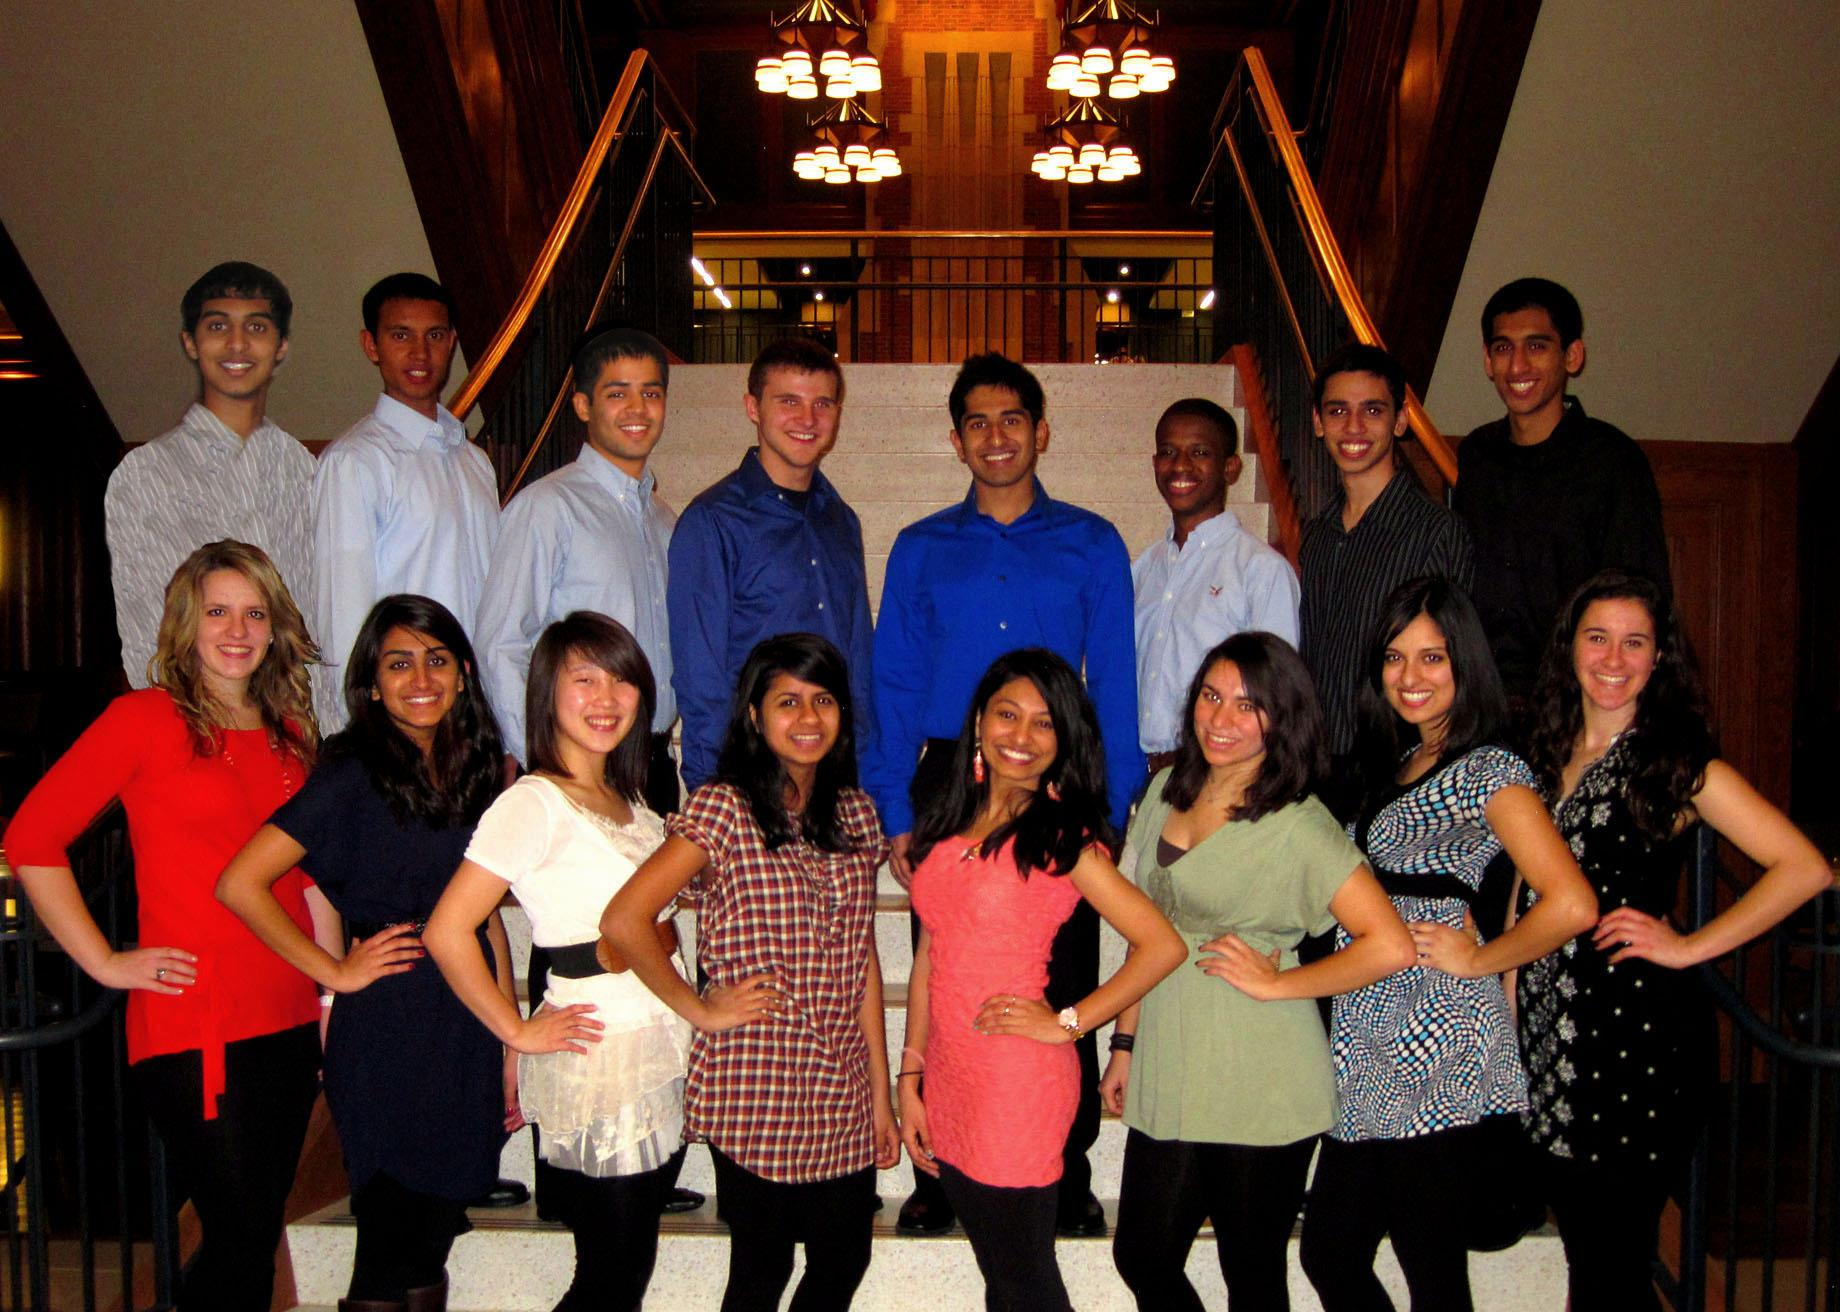
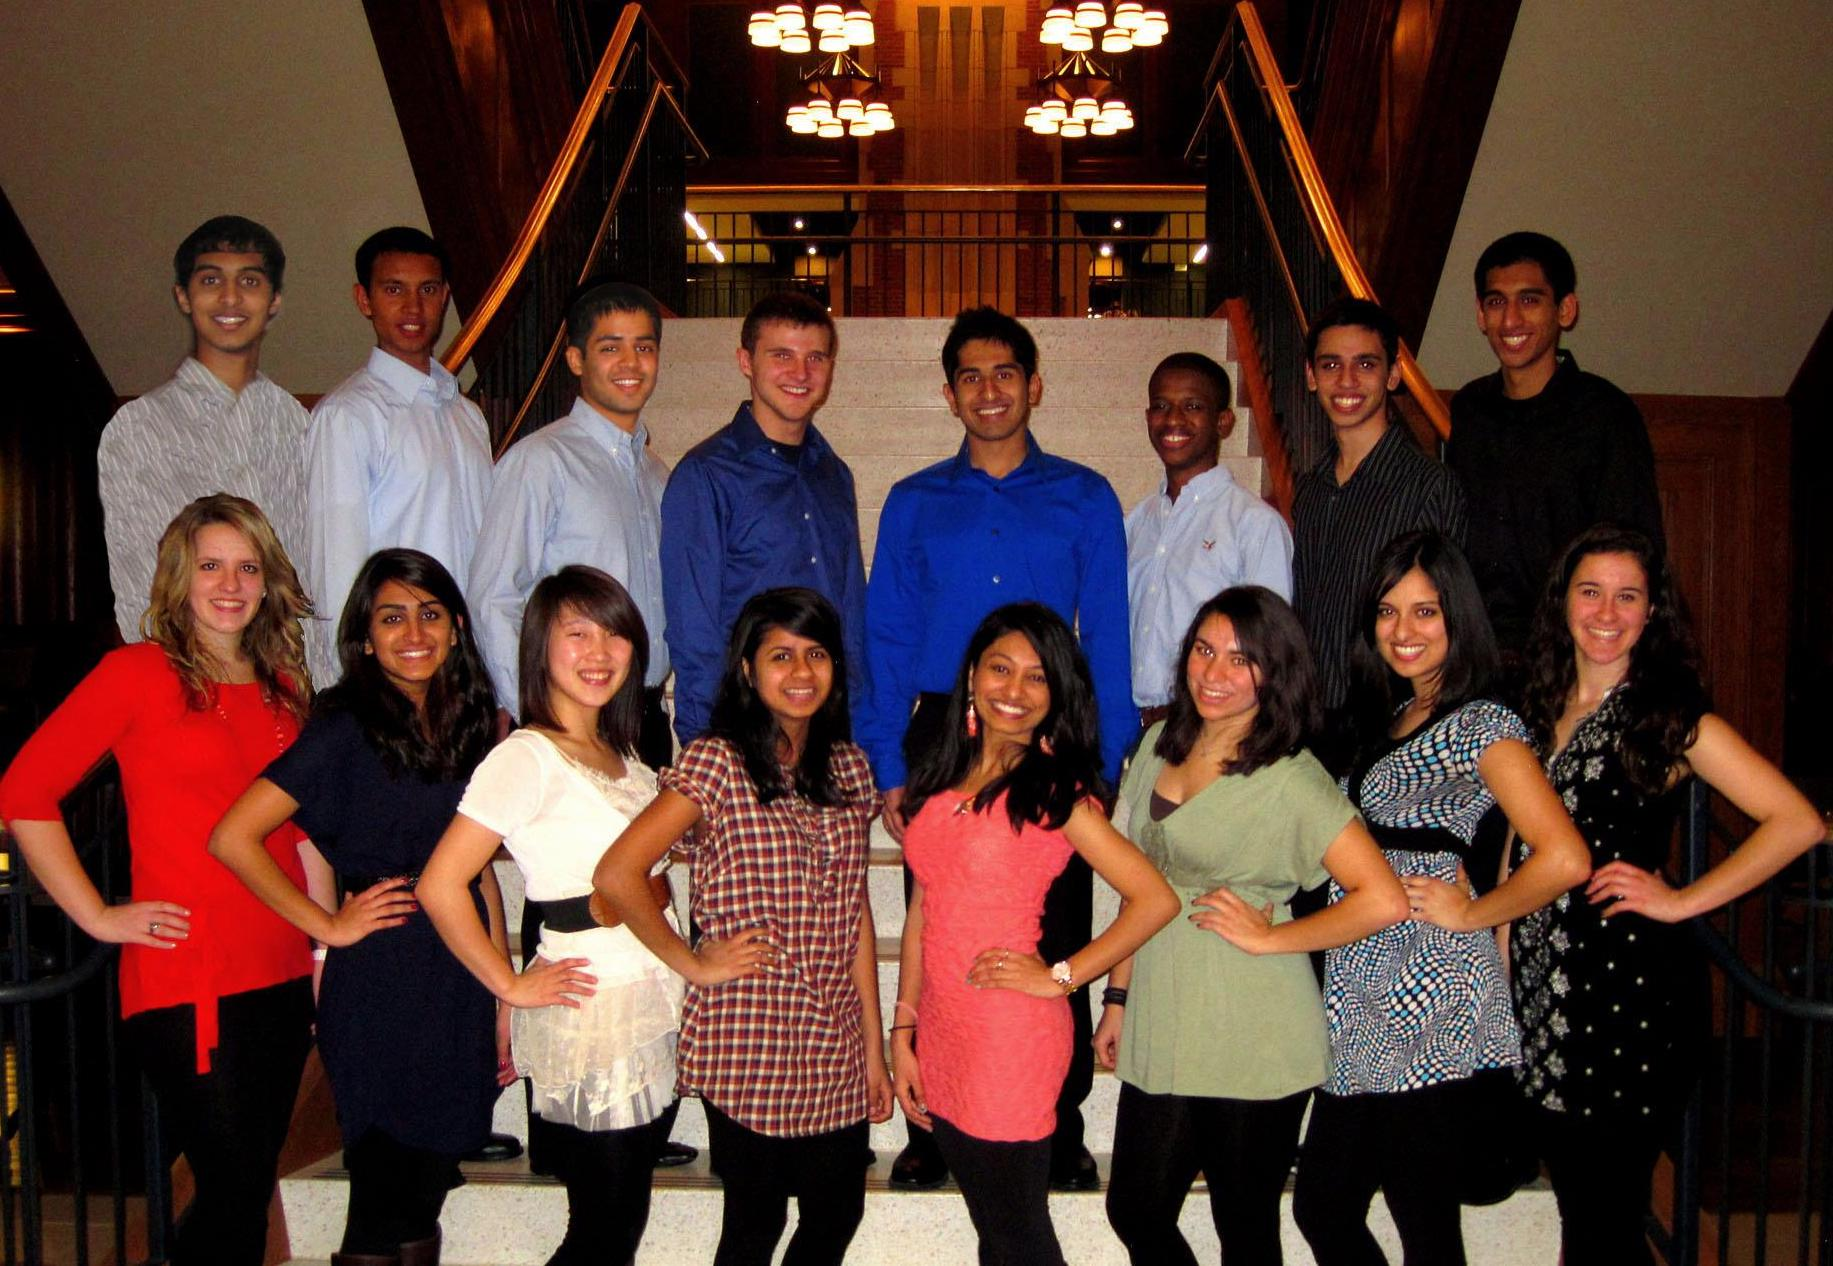
updates

diff --git a/chaawebsite/src/components/performances.component.js b/chaawebsite/src/components/performances.component.js
@@ -1,0 +1,95 @@
+import React, { Component } from 'react';
+import ReactPlayer from "react-player";
+
+
+
+export default class Performances extends Component {
+   
+    render(){
+        return( 
+            <div>
+                <div id="vidContainer">
+                    <hr></hr>
+                    <div id = "performText">PAST PERFORMANCES</div>
+                    <hr></hr>
+                    <br></br>
+                    <br></br>
+                    <p>2019-2020: Black Mirror - Hang the DJ</p>
+                    <div className="videos">
+                        <ReactPlayer
+                            url="https://www.youtube.com/watch?v=ThiC7lqqEMw"
+                        />
+                    </div>
+                    <br></br>
+                    <br></br>
+                    <p>2018-2019: La La Land</p>
+                    <div className="videos">
+                        <ReactPlayer
+                            url="https://www.youtube.com/watch?v=dl9YzfdFiFk"
+                        />
+                    </div>
+                    <br></br>
+                    <br></br>
+                    <p>2017-2018: Rang De Basanti</p>
+                    <div className="videos">
+                        <ReactPlayer
+                            url="https://www.youtube.com/watch?v=JO6iM4jB9zI"
+                        />
+                    </div>
+                    <br></br>
+                    <br></br>
+                    <p>2016-2017: Nil Battey Sannata</p>
+                    <div className="videos">
+                        <ReactPlayer
+                            url="https://www.youtube.com/watch?v=5ZXWKr2CjTg"
+                        />
+                    </div>
+                    <br></br>
+                    <br></br>
+                    <p>2015-2016: Step Up</p>
+                    <div className="videos">
+                        <ReactPlayer
+                            url="https://www.youtube.com/watch?v=n4Ic16herzw"
+                        />
+                    </div>
+                    <br></br>
+                    <br></br>
+                    <p>2014-2015: V For Vendetta </p>
+                    <div className="videos">
+                        <ReactPlayer
+                            url="https://www.youtube.com/watch?v=k7_XaQbUrOs"
+                        />
+                    </div>
+                    <br></br>
+                    <br></br>
+                    <p>2013-2014: Ms. Congeniality </p>
+                    <div className="videos">
+                        <ReactPlayer
+                            url="https://www.youtube.com/watch?v=8UTa5Rymizw"
+                        />
+                    </div>
+                    <br></br>
+                    <br></br>
+                    <p>2012-2013: Pareshaan</p>
+                    <div className="videos">
+                        <ReactPlayer
+                            url="https://www.youtube.com/watch?v=VBYxzRn66mU"
+                        />
+                    </div>
+                    <br></br>
+                    <br></br>
+                    <p>2011-2012: Alien Shit</p>
+                    <div className="videos">
+                        <ReactPlayer
+                            url="https://www.youtube.com/watch?v=yxzrNOI9AJ4"
+                        />
+                    </div>
+                </div>
+                <br></br>
+                <br></br>
+                <br></br>
+                <br></br>
+            </div>
+        )
+    }
+}

diff --git a/chaawebsite/src/components/homepage.component.js b/chaawebsite/src/components/homepage.component.js
@@ -1,4 +1,6 @@
 import React, { Component } from 'react';
+import { FontAwesomeIcon } from '@fortawesome/react-fontawesome'
+import {faCircle } from '@fortawesome/free-solid-svg-icons'
 import { Slide } from 'react-slideshow-image';
 import Logo from './diwali.jpg';
 import pic1 from './album/circle.jpeg';
@@ -6,7 +8,7 @@ import pic2 from './album/christmas.JPG';
 import pic3 from './album/ADZ.jpg';
 import pic4 from './album/mixer.jpeg'
 import pic5 from './album/giselle.jpg';
-import pic6 from './album/formal.jpeg';
+import pic6 from './album/formal.JPG';
 import pic7 from './album/jazba.JPG';
 import pic8 from './album/soraya.jpg';
 import pic9 from './album/wall.jpg';
@@ -45,15 +47,19 @@ export default class Homepage extends Component {
                             <img id = "image"
                                 alt=""
                                 src={Logo}
-                                width="1440"
-                                height="635.21"
+                                width="1416"
+                                height="624.78"
                             />
                             <div className="caption">
                                 <p>WASHU CHAAHAT</p>
                             </div>
+                            <div className="motto">
+                                <p><FontAwesomeIcon icon={faCircle} color = "white" className="faIcons"/> PASSION DON'T QUIT <FontAwesomeIcon icon={faCircle} color = "white" className="faIcons"/></p>
+                            </div>
                         </div>
                     </div>
                 </div>
+                <br></br>
                 <br></br>
                 <br></br>
                 <br></br>
@@ -112,7 +118,6 @@ export default class Homepage extends Component {
                         </div>
                     </Slide>
                     </div>
-                <br></br>
                 <br></br>
                 <br></br>
                 <br></br>

diff --git a/chaawebsite/src/index.css b/chaawebsite/src/index.css
@@ -1,7 +1,10 @@
 #image {
   display: block;
-  filter: blur(3px);
-  opacity: .8;
+  /* filter: blur(2px); */
+}
+
+#image2 {
+  display: block;
 }
 
 .thumbnail {
@@ -11,10 +14,22 @@
 
 .caption {
   position: absolute;
-  font-family: Trebuchet, sans-serif;
-  top: 65%;
+  font-family: sans-serif;
+  top: 27%;
   left: 50%;
-  font-size: 525%;
+  font-size: 520%;
+  transform: translate( -50%, -50% );
+  text-align: center;
+  color: white;
+  font-weight: 300;
+}
+
+.motto {
+  position: absolute;
+  font-family: "Gill Sans", sans-serif;
+  top: 40%;
+  left: 50%;
+  font-size: 225%;
   transform: translate( -50%, -50% );
   text-align: center;
   color: white;
@@ -23,7 +38,7 @@
 
 .theTeam{
   left: 50%;
-  font-size: 525%;
+  font-size: 400%;
   color: black;
   text-align: center;
   font-family: Trebuchet, sans-serif;
@@ -43,8 +58,8 @@
 
 .aboutContainer{
   display: inline-block;
-  margin-left: 12.5%;
-  width: 75%; 
+  margin-left: 15%;
+  width: 70%; 
   font-size: 110%;
   text-align: center;
   font-family: Helvetica;
@@ -71,11 +86,35 @@
   position: relative;
   right: 390px;
   bottom: 305px;
-  font-family: 'Gill Sans', sans-serif;
+  font-family: 'Noto Sans', sans-serif;
   font-style: oblique;
   padding: 10px;
   font-size: 40px;
-  background: rgba(255, 255, 255, 0.2);
+  font-style: bold;
+  background: rgba(255, 255, 255, 0.1);
 }
 
+.videos{
+  display: flex;
+  justify-content: center;
+}
 
+#vidContainer{
+  text-align: center;
+  font-size: 125%;
+}
+
+#performText{
+  text-align: center;
+  font-size: 300%;
+  font-family: Trebuchet, sans-serif;
+}
+
+.faIcons{
+  font-size: 12px;
+  margin-bottom: 1.4%;
+}
+
+#bigCon{
+  border: 12px solid rgb(80,0,0);
+}

diff --git a/chaawebsite/src/components/members.component.js b/chaawebsite/src/components/members.component.js
@@ -36,8 +36,26 @@ export default class Members extends Component {
     render(){
         return( 
             <div> 
+                <hr></hr>
+                <h2 className = "theTeam">CHAAHAT IV</h2>
+                <hr></hr>
+                <div id="container">
+                    <div id="box-search">
+                        <div className="thumbnail">
+                            <img id = "image2"
+                                alt=""
+                                src={formal}
+                                width="1416"
+                                height="743.21"
+                            />
+                        </div>
+                    </div>
+                </div>
                 <br></br>
-                <h1 className = "theTeam">PAST TEAMS</h1>
+                <br></br>
+                <br></br>
+                <hr></hr>
+                <h2 className = "theTeam">PAST TEAMS</h2>
                 <hr></hr>
                 <br></br>
                  <div className = "slide-container">
@@ -84,6 +102,10 @@ export default class Members extends Component {
                         </div>
                     </Slide>
                     </div>
+                <br></br>
+                <br></br>
+                <br></br>
+                <br></br>
             </div>  
         )
     }

diff --git a/chaawebsite/src/App.js b/chaawebsite/src/App.js
@@ -14,15 +14,17 @@ import Footer from "./components/footer.component";
 function App() {
 
   return (
-    <Router>
-        <Navbar2/>
-        <Route exact path="/" component={Homepage} />
-        <Route exact path="/members" component={Members} />
-        <Route exact path="/performances" component={Performances} />
-        <Route exact path="/join" component={Join} />
-        <Route exact path="/contactus" component={Contact} />
-        <Footer />
-    </Router>
+      <Router>
+        <div id ="bigCon">
+          <Navbar2/>
+          <Route exact path="/" component={Homepage} />
+          <Route exact path="/members" component={Members} />
+          <Route exact path="/performances" component={Performances} />
+          <Route exact path="/join" component={Join} />
+          <Route exact path="/contactus" component={Contact} />
+          <Footer />
+        </div>
+      </Router>
   );
 }
 

diff --git a/chaawebsite/src/components/navbar.component.js b/chaawebsite/src/components/navbar.component.js
@@ -1,6 +1,6 @@
 import React, { Component } from 'react';
 import Logo from './chaaLogo.jpeg';
-import { Navbar, Nav, NavDropdown,} from 'react-bootstrap';
+import { Navbar, Nav,} from 'react-bootstrap';
 import { FontAwesomeIcon } from '@fortawesome/react-fontawesome'
 import { faFacebook,faInstagram } from '@fortawesome/free-brands-svg-icons' 
 

diff --git a/chaawebsite/src/components/join.component.js b/chaawebsite/src/components/join.component.js
@@ -1,0 +1,14 @@
+import React, { Component } from 'react';
+import { Slide } from 'react-slideshow-image';
+
+
+export default class Join extends Component {
+   
+    render(){
+        return( 
+            <div> 
+                
+            </div>  
+        )
+    }
+}
